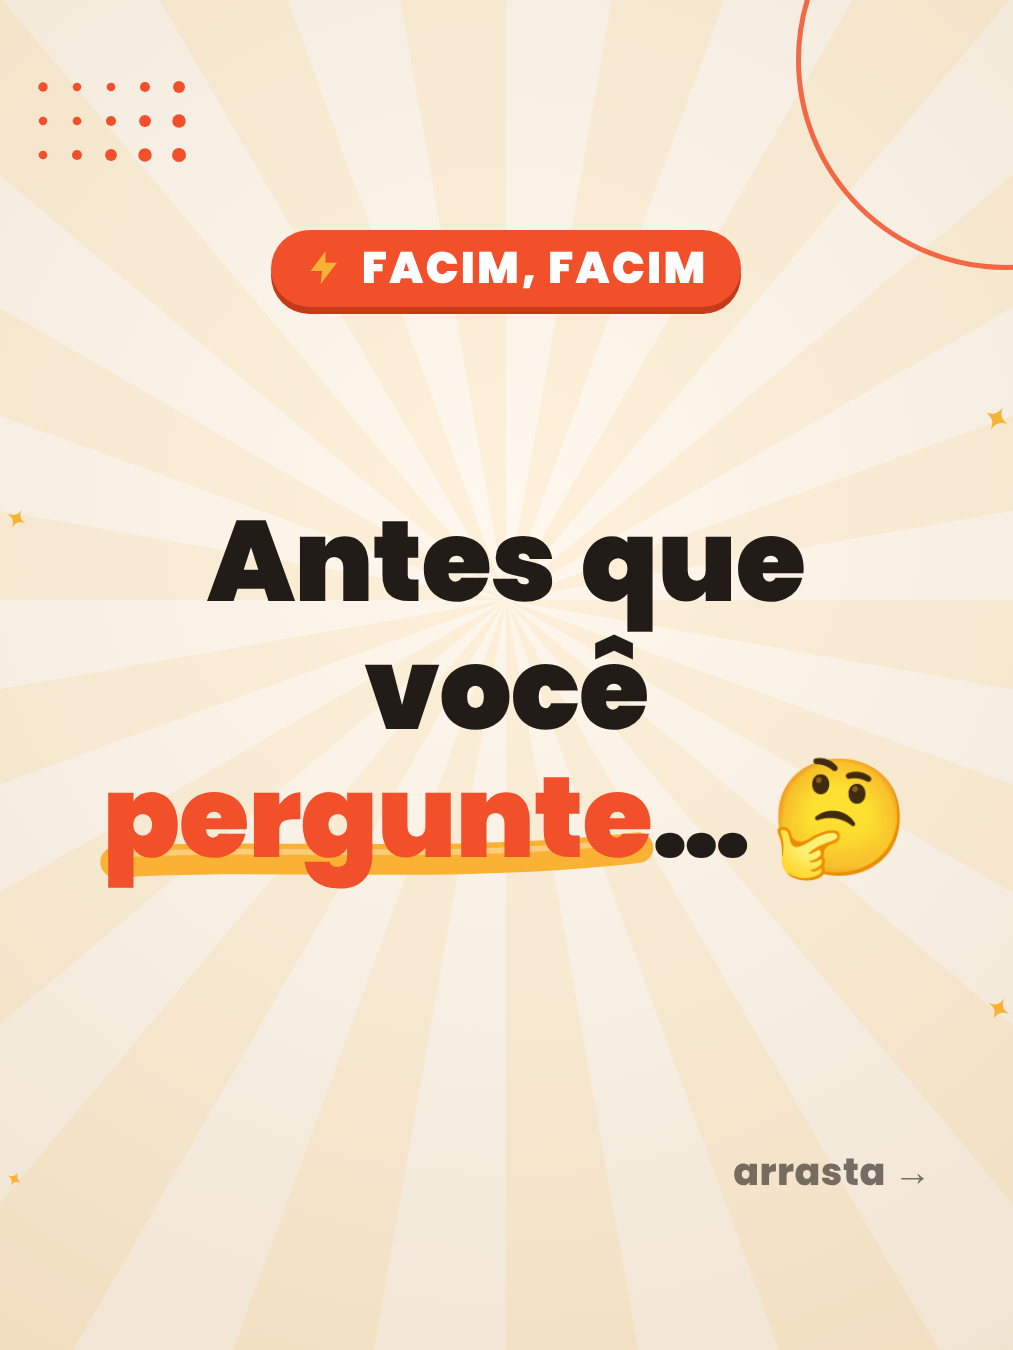
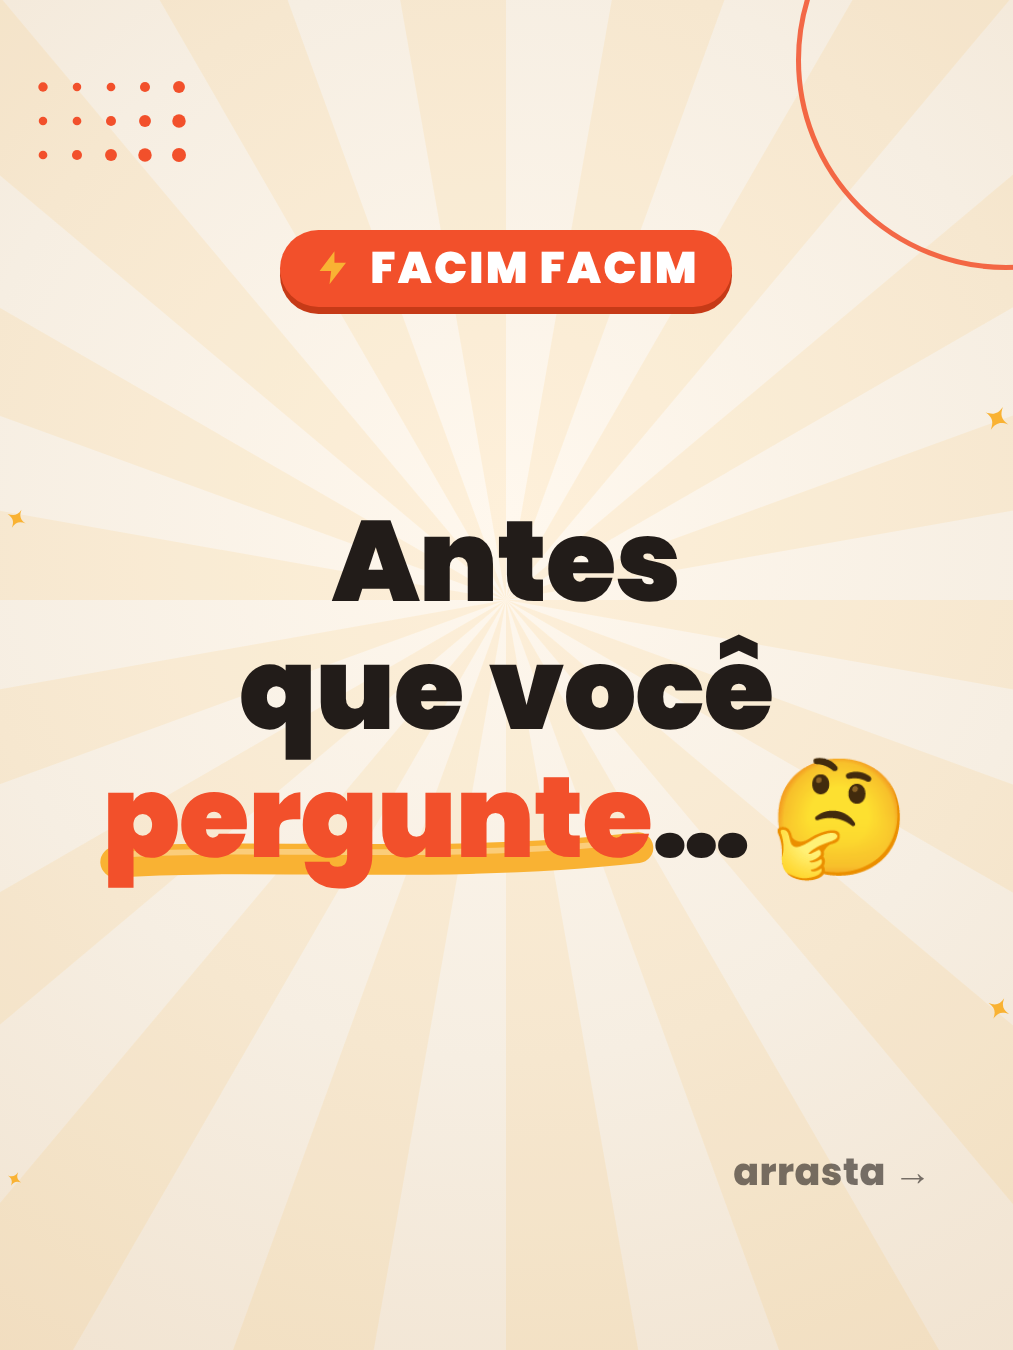
fix: carrossel "FACIM FACIM" sem vírgula (C1 e C2) e emoji fora da contagem de palavras
- Chip "FACIM FACIM" nos dois carrosséis; slide 4 do C1 com "Facim facim."
- Quebra de linha: emoji não conta como palavra; a penúltima palavra pode subir de linha quando isso
  permite um tamanho de texto maior (o emoji fica grudado na última).
- PNGs do C1 e do C2 renderizados de novo.

Claude-Session: https://claude.ai/code/session_01SgbibnpZEJbmKHHrtdPjiv

Changed region(s): [[0.2142, 0.3733, 0.7957, 0.56], [0.2448, 0.1556, 0.7345, 0.2489]]

diff --git a/src/dicionario/fit.ts b/src/dicionario/fit.ts
@@ -16,9 +16,12 @@ export type Wrapped = { size: number; lines: string[]; ok?: boolean }; // ok = t
 // Quebra de linha: o MENOR número de linhas possível e, entre as opções com esse número, a mais equilibrada
 // (linhas de largura parecida). Regra fixa: as duas últimas palavras de uma frase (até . ! ? …) nunca ficam
 // em linhas diferentes (ex.: "Pertinho. / Bem perto.", nunca "Pertinho. Bem / perto.").
+// Emoji não conta como palavra: ele vai sempre grudado na última palavra (NBSP) e, com relaxEmoji, a
+// penúltima pode subir para a linha de cima (fitWrap só usa isso quando permite um tamanho maior).
+const EMOJI = /\p{Extended_Pictographic}/u;
 const CLOSES = /[.!?…]["”’)]*$/;
 const widthCache = new Map<string, number>();
-export const wrap = (text: string, size: number, weight: number, maxWidth: number): string[] => {
+export const wrap = (text: string, size: number, weight: number, maxWidth: number, relaxEmoji = false): string[] => {
   const words = text.split(/ +/).filter(Boolean); // só espaço comum: o NBSP (ex.: antes do emoji) não quebra
   const n = words.length;
   if (n === 0) return [];
@@ -30,7 +33,7 @@ export const wrap = (text: string, size: number, weight: number, maxWidth: numbe
   };
   const closes = (i: number) => i === n - 1 || CLOSES.test(words[i]);
   // não pode quebrar antes da palavra i se ela fecha a frase e a anterior não (separaria as duas últimas)
-  const canBreakBefore = (i: number) => i === 0 || !(closes(i) && !closes(i - 1));
+  const canBreakBefore = (i: number) => i === 0 || !(closes(i) && !closes(i - 1)) || (relaxEmoji && EMOJI.test(words[i]));
   // best[j] = [linhas, custo, início da última linha] para as j primeiras palavras
   const best: Array<[number, number, number] | null> = Array(n + 1).fill(null);
   best[0] = [0, 0, 0];
@@ -54,9 +57,15 @@ export const wrap = (text: string, size: number, weight: number, maxWidth: numbe
 // "ok" diz se coube de verdade (com uma lista de um tamanho só, quem chama decide o que fazer).
 export const fitWrap = (text: string, weight: number, maxWidth: number, sizes: number[], maxLines: number): Wrapped => {
   let last: Wrapped = { size: sizes[sizes.length - 1], lines: [text], ok: false };
+  const fitsAll = (lines: string[], size: number) => lines.length <= maxLines && lines.every((l) => measure(l, size, weight) <= maxWidth);
   for (const size of sizes) {
-    const lines = wrap(text, size, weight, maxWidth);
-    const ok = lines.length <= maxLines && lines.every((l) => measure(l, size, weight) <= maxWidth);
+    let lines = wrap(text, size, weight, maxWidth);
+    let ok = fitsAll(lines, size);
+    if (!ok && EMOJI.test(text)) {
+      // a regra estrita não cabe neste tamanho: a penúltima palavra pode subir (o emoji fica com a última)
+      lines = wrap(text, size, weight, maxWidth, true);
+      ok = fitsAll(lines, size);
+    }
     if (ok) return { size, lines, ok };
     last = { size, lines, ok };
   }
